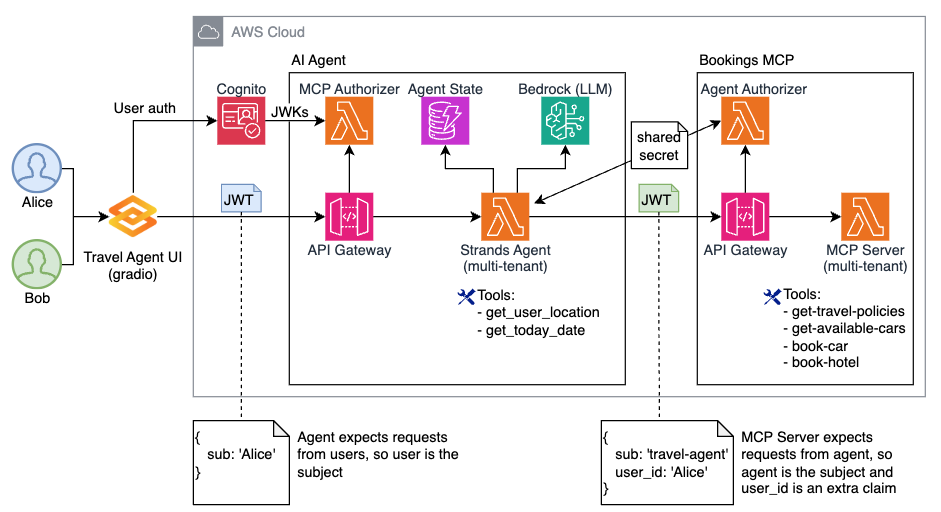
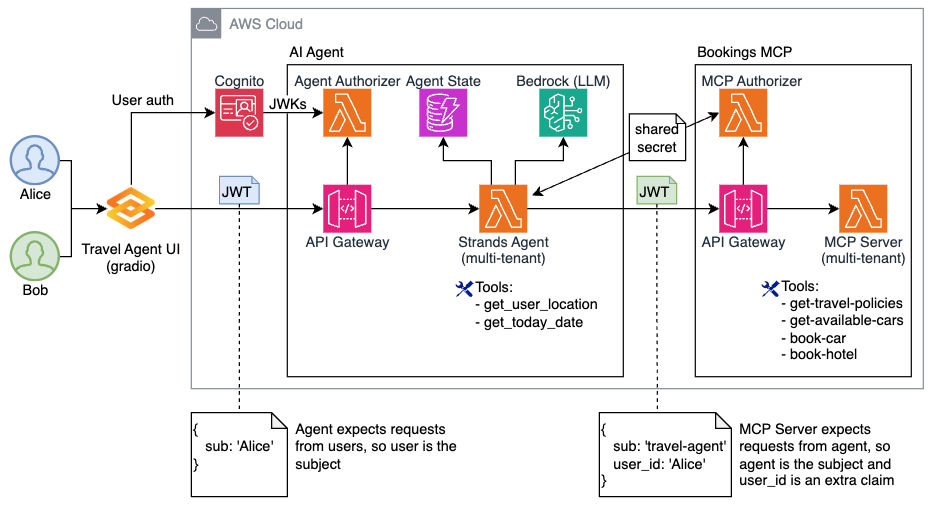
updated readme

Changed region(s): [[0.0, 0.0, 0.9936, 1.0]]

diff --git a/strands-agent-on-lambda/README.md b/strands-agent-on-lambda/README.md
@@ -1,17 +1,54 @@
-# Strands Agent with MCP Server on AWS Lambda
+# AI Agent with MCP Server on AWS Lambda
 
-## Architecture
+This repo contains a sample implementation of user-aware AI Agent and MCP Server running on [AWS Lambda](https://aws.amazon.com/lambda). The sample implements an AI-based Travel Agent for a fictitious corporation AcmeCorp. 
+
+See two below artifacts to better understand the expected Agent behavior. 
+* [./lambdas/travel-agent/agent_build.py](./lambdas/travel-agent/agent_build.py) for Agent's system prompt. 
+* [./lambdas/bookings-mcp/tool-get-travel-policies.js](./lambdas/bookings-mcp/tool-get-travel-policies.js) for corporate travel policies the Agent is bound by. 
+
+(Skip to [Running the project](#running-the-project))
+
 ![](./img/arch.png)
 
-(See detailed description of components and workflows)
+### Frameworks and services
+* AI Agent is implemented using [Strands Agents SDK](https://strandsagents.com/0.1.x/)
+* MCP Server is implemented using the [official MCP TypeScript SDK](https://github.com/modelcontextprotocol/typescript-sdk) and [Lambda Web Adapter](https://github.com/awslabs/aws-lambda-web-adapter)
+* [Amazon API Gateway](https://aws.amazon.com/api-gateway/) is used to front AI Agent and MCP (see architecture diagram). 
+* [Amazon DynamoDB](https://aws.amazon.com/dynamodb/) is used to persist AI Agent session state. 
 
-## Prereqs
+### Authentication and Authorization
+* User authenticaton is handled by [Amazon Cognito](https://aws.amazon.com/cognito/)
+* Both AI Agent and Bookings MCP domains require JWT (bearer token) authorization, as enforced by API Gateway Lambda authorizers.
+* AI Agent expects JWT issued by Cognito. The subject of this JWT is the user. Validation is done in the Agent Authorizer using JWKs generated by Cognito during user authentication.
+* Bookings MCP expects JWT generated by Strands Agent. The subject of this JWT is the agent with `user_id` being an extra claim. This token is signed by a shared secret. Validation is done in the MCP Authorizer using shared secret. 
 
-* AWS CLI
-* CDK
-* Node.js and Python
+### User-awareness and session management
+* Both AI Agent and MCP Server are fully stateless, they do not maintain any internal state. 
+* Both AI Agent and MCP Server are aware of the current user and process requests within the user authorization context.
+* AI Agent externalizes its state to DynamoDB, using `userId` as primary key. 
+* New Strands Agent instance is created on every request with state that belongs to the current user. 
+* MCP Clients attached to the AI Agent are created per-user, holding user-specific JWT to communicate with MCP Server. 
+* MCP Server propagates authorized user context into all tools, making MCP tools user-aware. 
+
+### Tools
+
+#### Implemented in agent
+* [Agent] `get-user-location` resolves user's IP address to users location. 
+* [Agent] `get-todays-date` tool returns today's date.
+
+#### Implemented in MCP Server
+* [MCP] `get-travel-policies` returns AcmeCorp corporate travel policies.
+* [MCP] `get-available-cars` returns a list and categories of cars available to rent.
+* [MCP] `book-car` books a car rental.
+* [MCP] `book-hotel` books a hotel.
 
 ## Running the project
+
+### Prereqs
+
+* AWS CLI, CDK, Git, Docker installed
+* Node.js installed
+* Access to `us.anthropic.claude-3-5-haiku-20241022-v1:0` in `us-east-1`. Or update [Agent configuration](./lambdas/travel-agent/agent_builder.py) to use a different model/region. 
 
 ### Clone the project 
 ```bash
@@ -76,4 +113,7 @@ Once logged in, start asking your AI Agent questions about corporate travel book
 cdk destroy
 ```
 
+## License
+
+This library is licensed under the MIT-0 License. See the LICENSE file.
 
